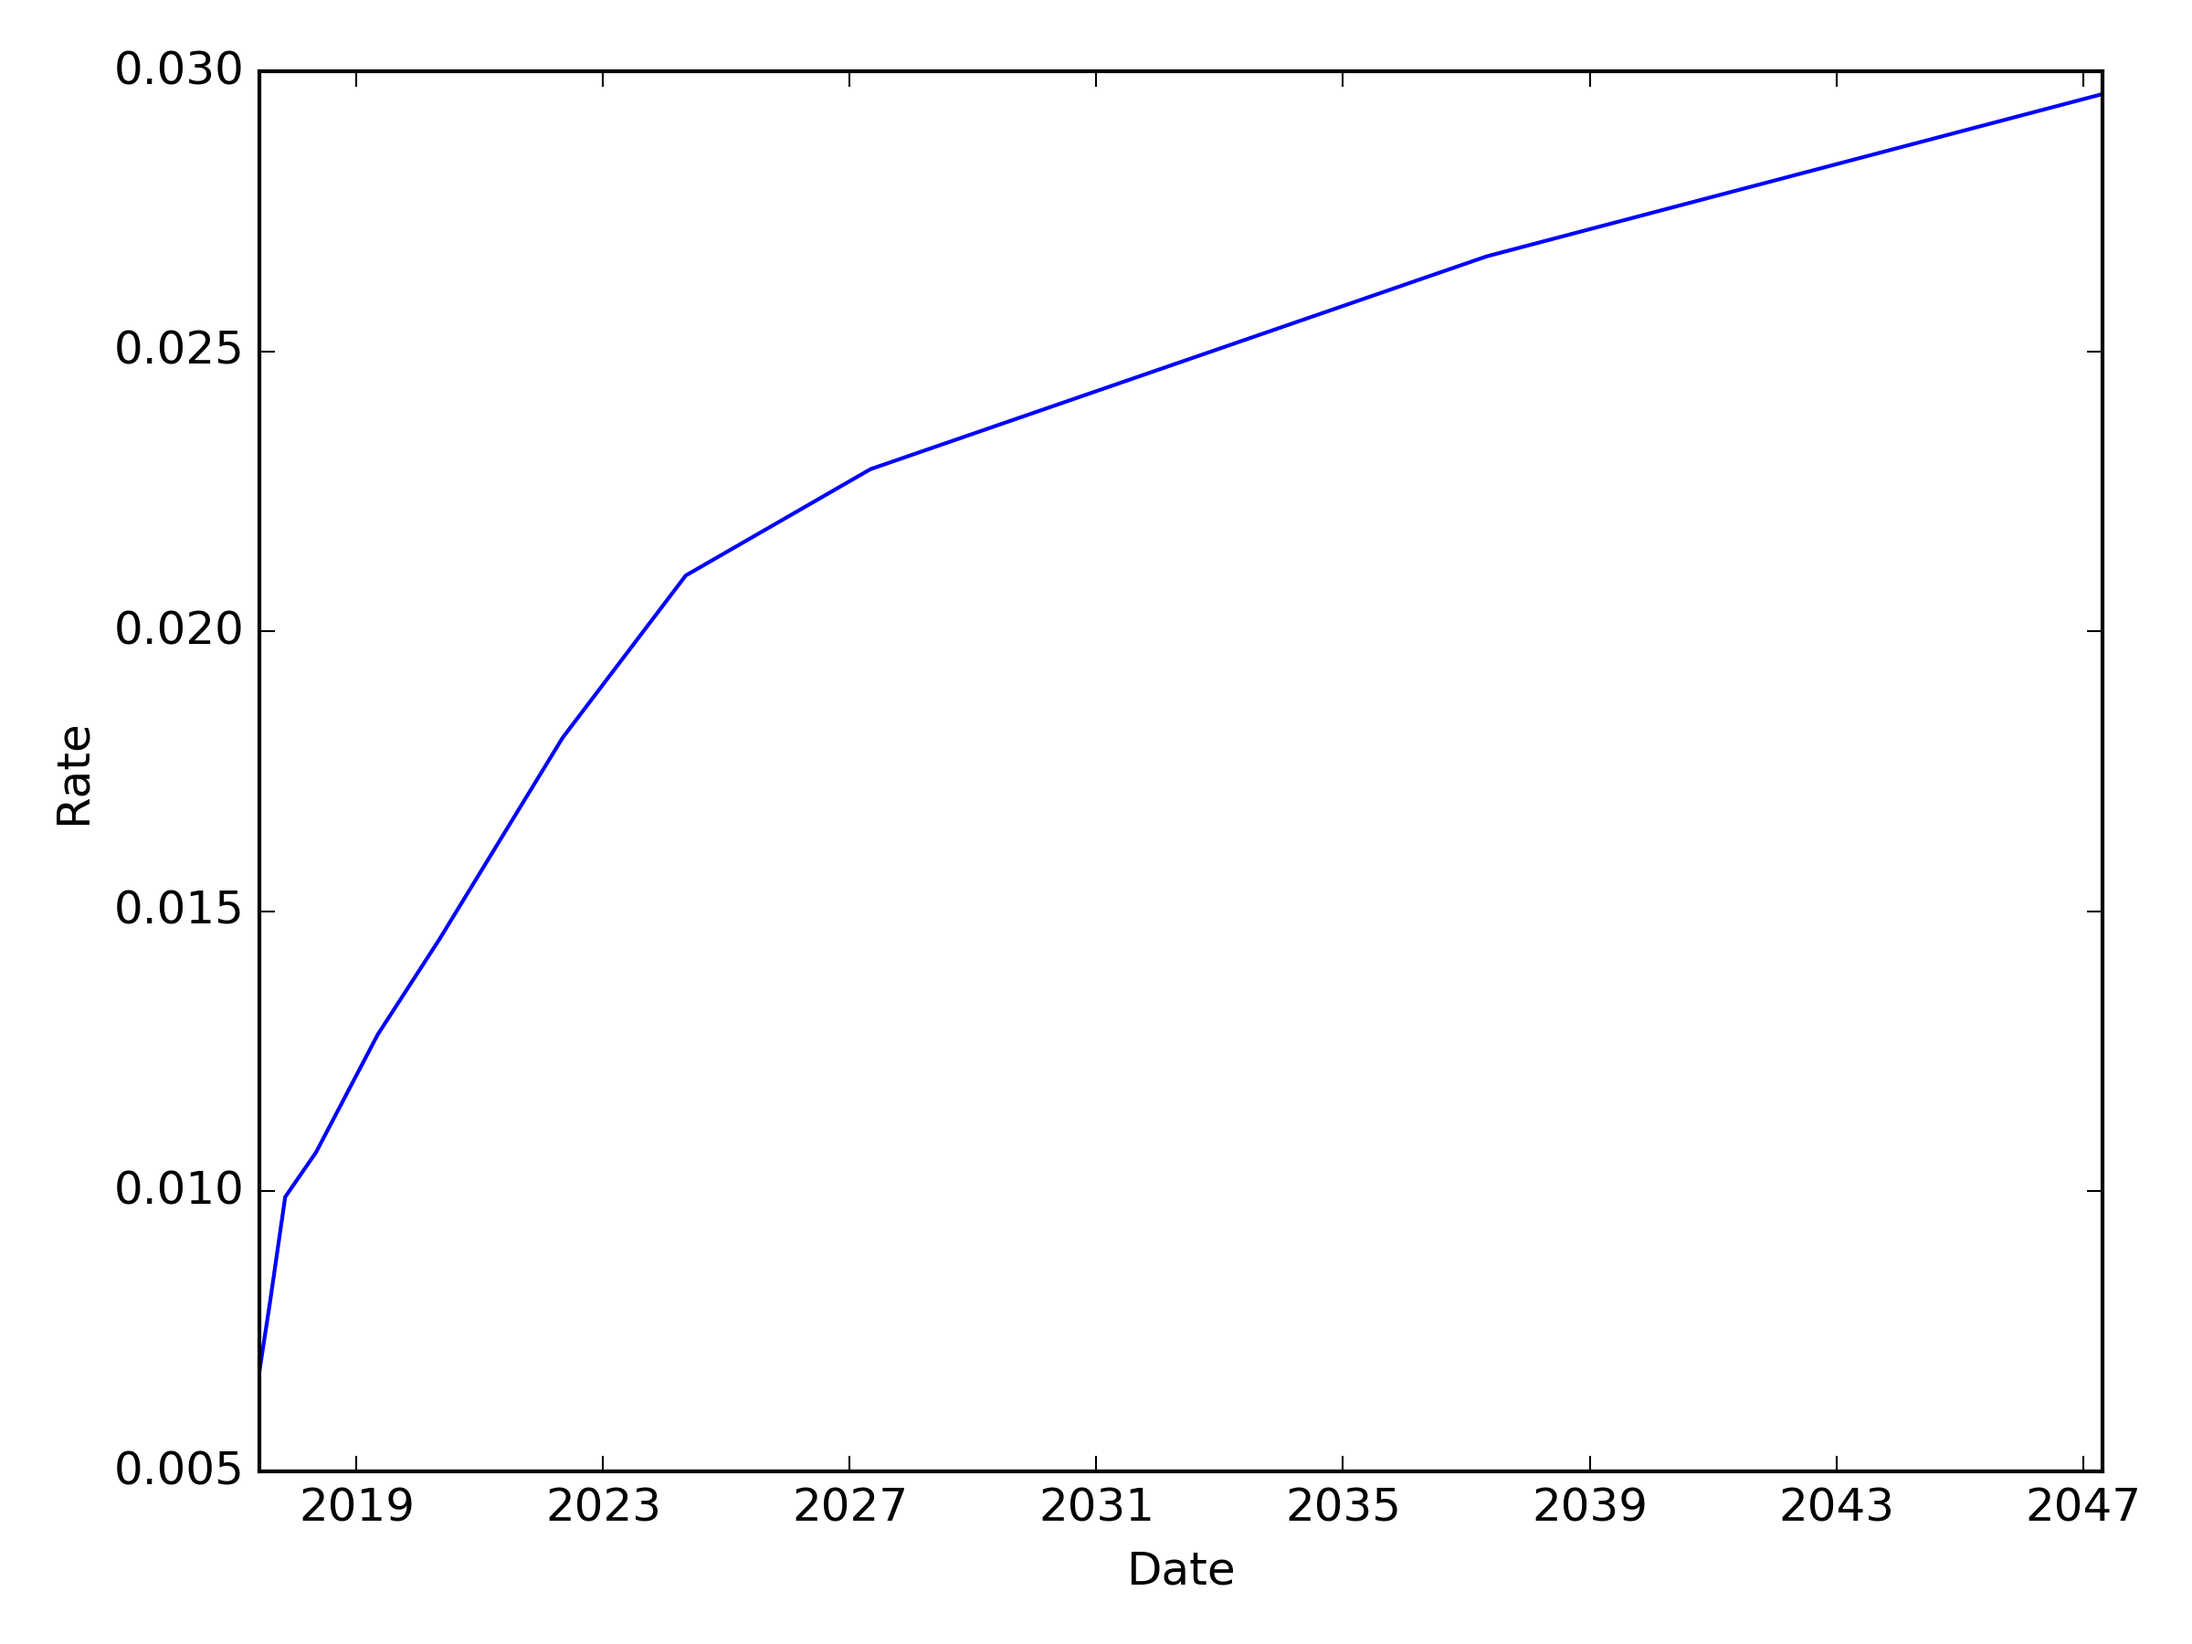
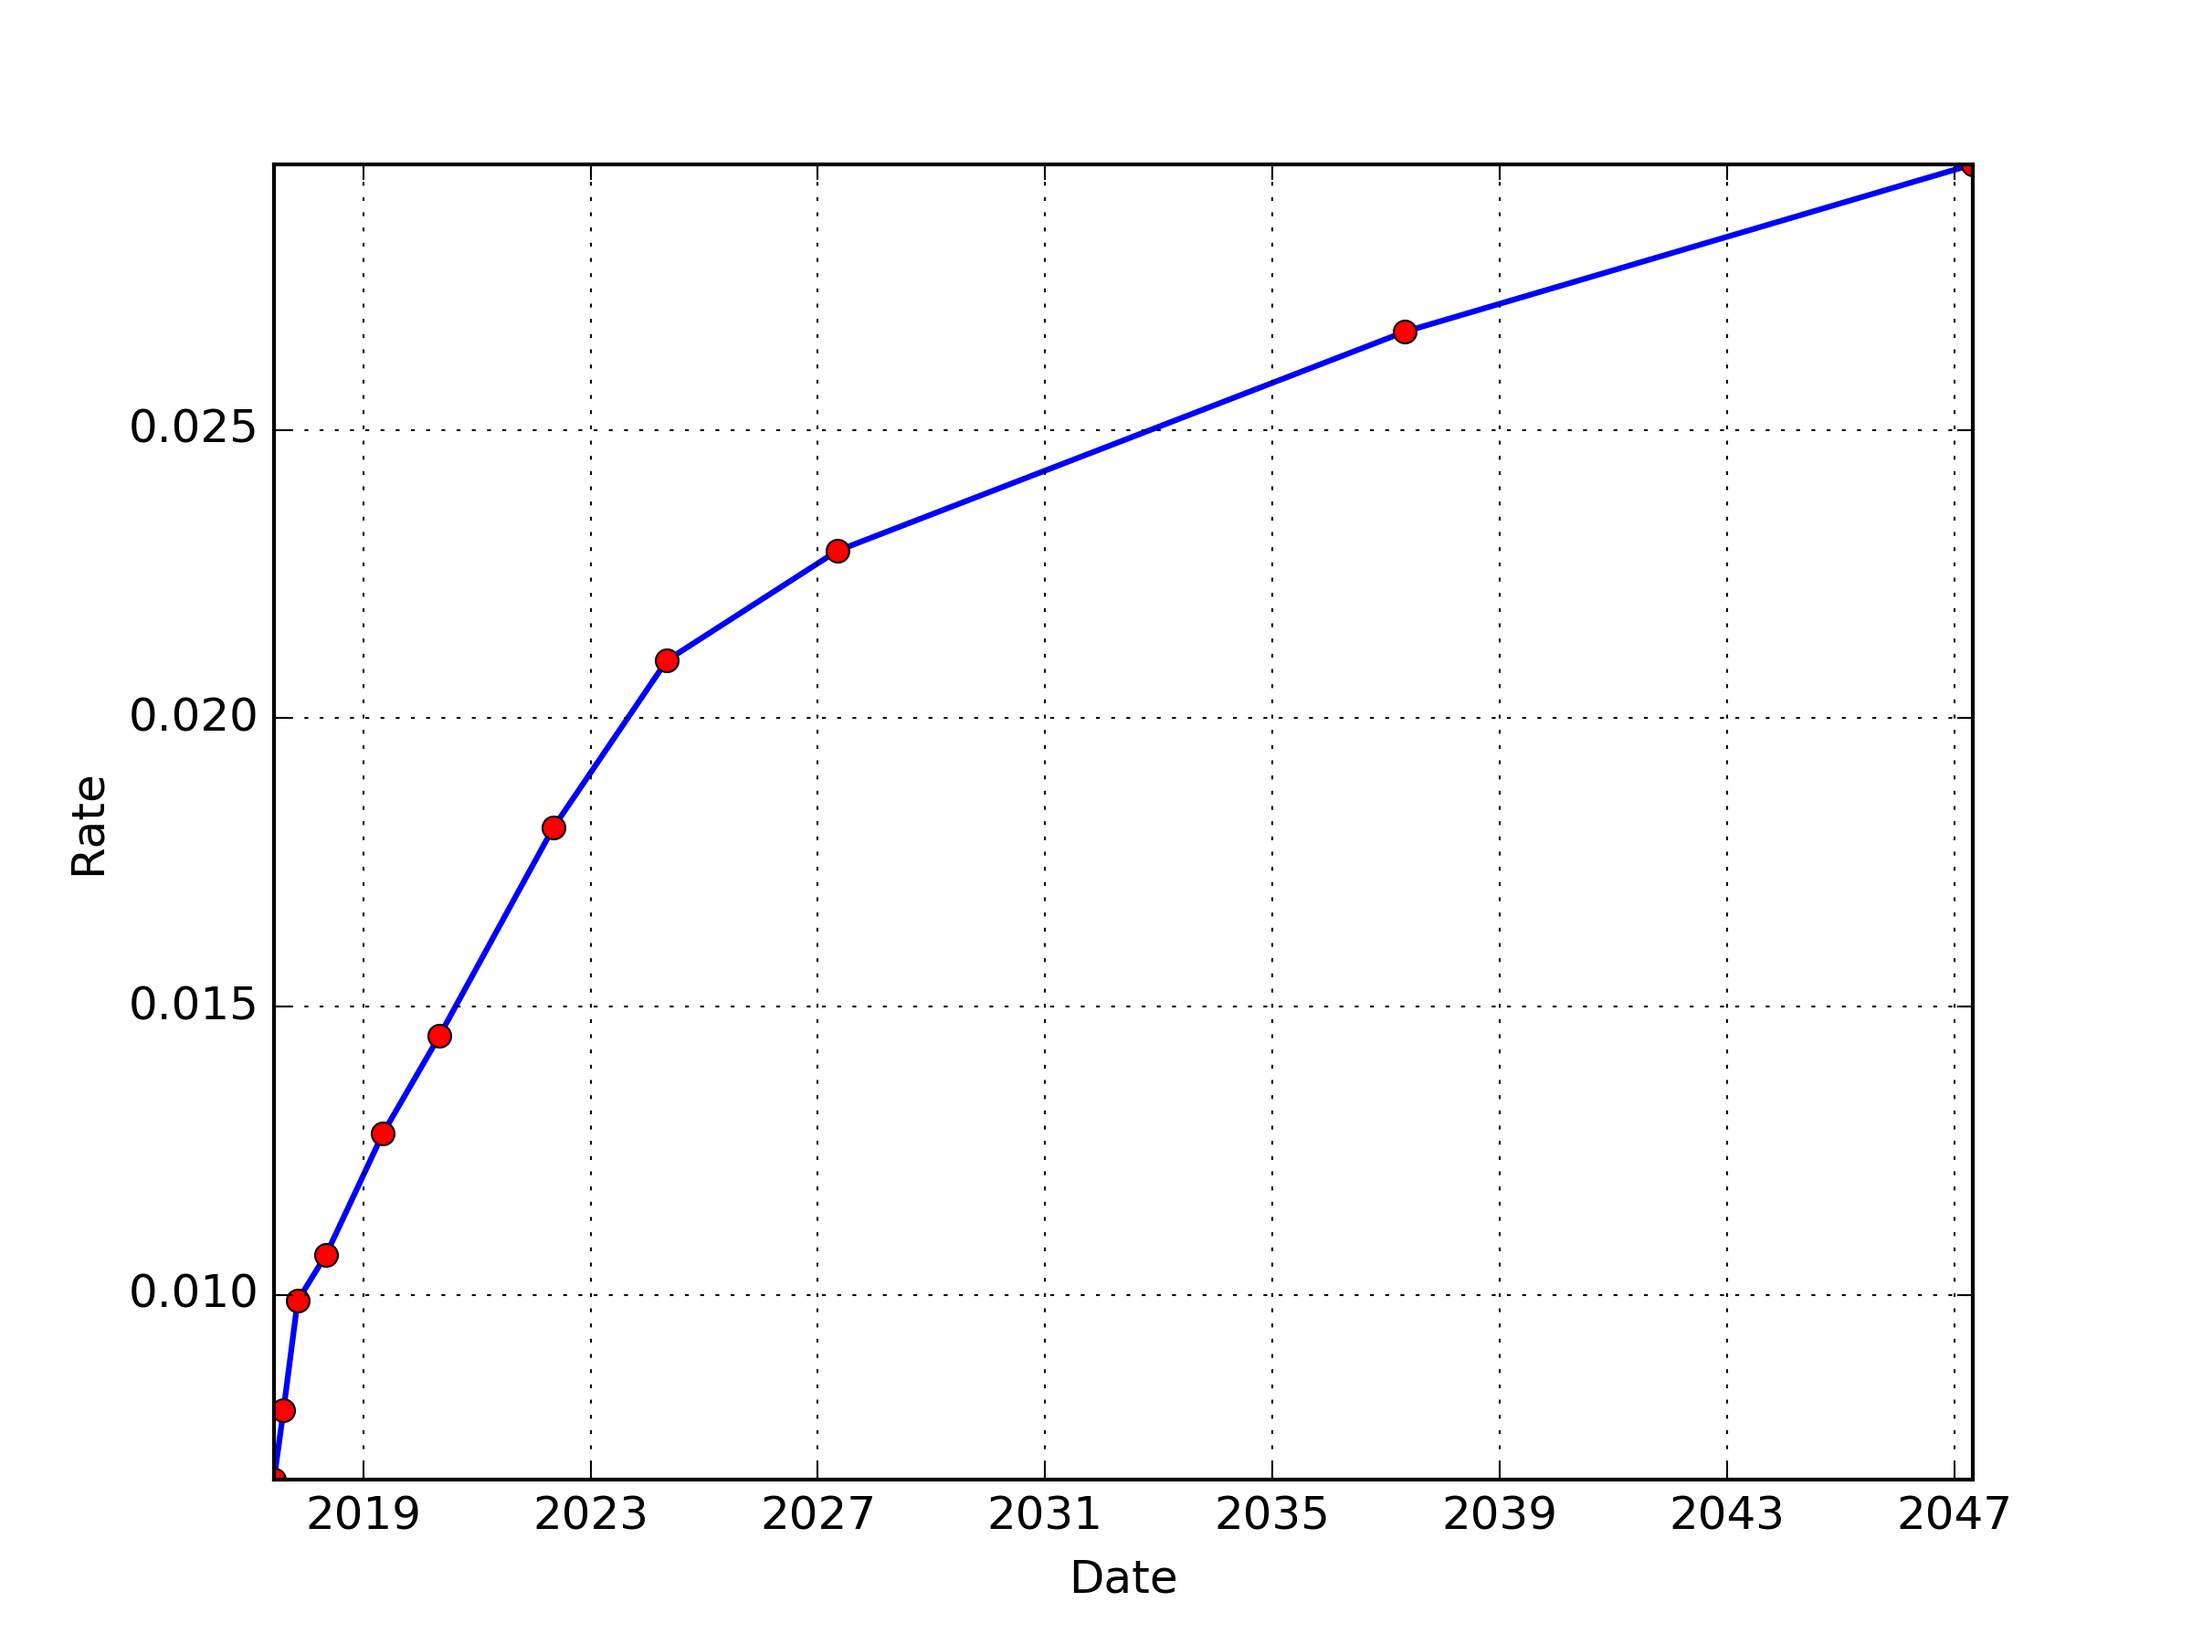
update to curve images

diff --git a/app/curves/curve_funcs.py b/app/curves/curve_funcs.py
@@ -104,10 +104,13 @@ def loadTreasuryCurve(dflt=False, disp=True):
 def saveCurveImg(rate_list):
     x = [r[0] for r in rate_list]
     y = [r[1] for r in rate_list]
-    plt.plot(x, y)
+    # lw = line width, b = blue line, ro = red points
+    plt.plot(x, y, 'b', lw=1.5)
+    plt.plot(x, y, 'ro')
     plt.xlabel('Date')
     plt.ylabel('Rate')
-    plt.tight_layout()
+    plt.axis('tight')
+    plt.grid(True)
     plt.savefig(IMG_PATH + 'tsy_curve.png', dpi=300)
 
 def saveCurve(curve, crv_str):
